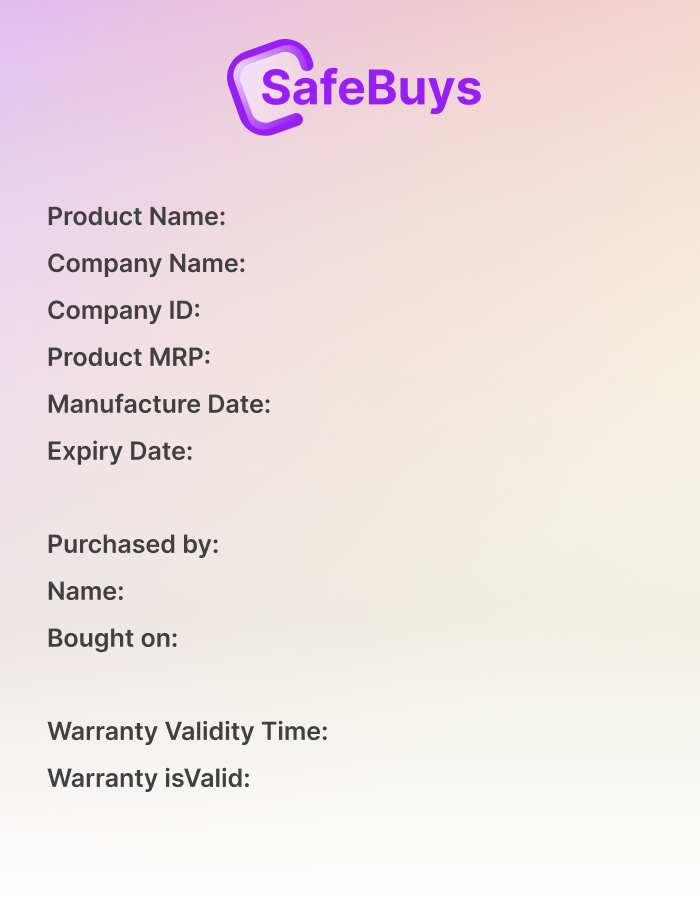
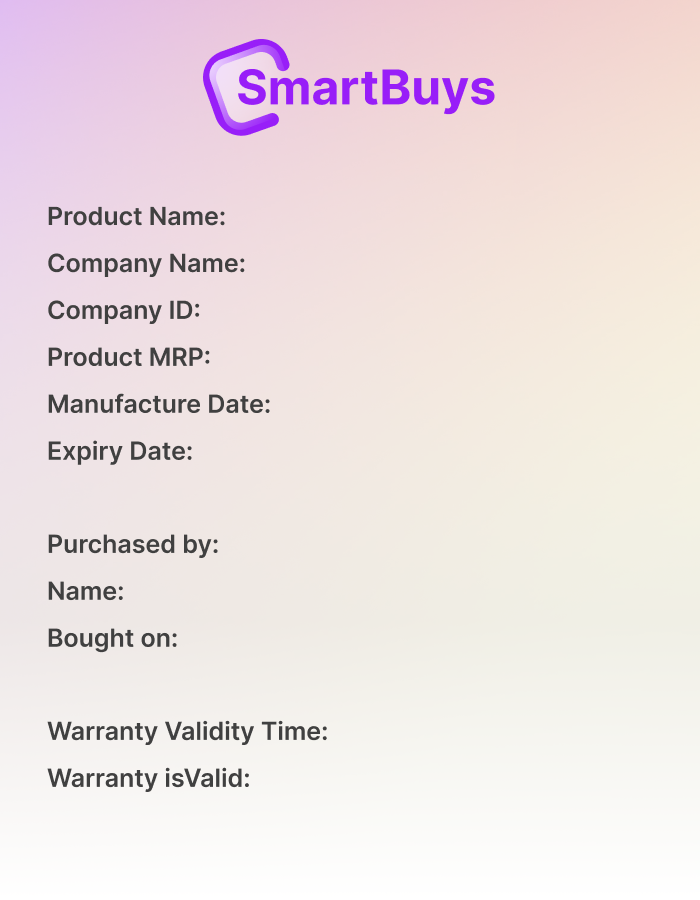
Adding scroll alpha testnet

Changed region(s): [[0.27, 0.0311, 0.72, 0.1556]]

diff --git a/src/Context/SafeBuyContext.jsx b/src/Context/SafeBuyContext.jsx
@@ -78,35 +78,15 @@ export const SafeBuyProvider = ({ children }) => {
 		age
 	) => {
 		const contract = await connectingWithSmartContract();
-
-		const web3Modal = new Wenb3Model();
-		const connection = await web3Modal.connect();
-		const provider = new ethers.providers.Web3Provider(connection);
-		let smartAccount = new SmartAccount(provider, options);
-		smartAccount = await smartAccount.init();
-
-		console.log("--------------------------------------------------------");
-		console.log(smartAccount);
-		console.log("--------------------------------------------------------");
-
-		const data = contract.interface.encodeFunctionData("registerUser", [
-			userAdd,
-			name,
-			emailId,
-			mobileNo,
-			gender,
-			age,
-		]);
-
-		const tx1 = {
-			to: SafeBuyAddress,
-			data,
-		};
-
-		const txResponse = await smartAccount.sendGaslessTransaction({
-			transaction: tx1,
-		});
-		console.log(txResponse);
+		if (currentAccount) {
+			const data = await contract.registerUser(userAdd,
+				name,
+				emailId,
+				mobileNo,
+				gender,
+				age);
+			console.log(data);
+		}
 	};
 
 	const registerCompany = async (comAdd, name, cin) => {

diff --git a/src/Context/constants.js b/src/Context/constants.js
@@ -10,11 +10,13 @@ export const ChainId = {
 	GOERLI: 5,
 	POLYGON_MUMBAI: 80001,
 	POLYGON_MAINNET: 137,
+	SCROLL: 534353,
 };
 
-export let activeChainId = ChainId.POLYGON_MUMBAI;
+export let activeChainId = ChainId.SCROLL;
 export const supportedChains = [
 	ChainId.GOERLI,
 	ChainId.POLYGON_MAINNET,
 	ChainId.POLYGON_MUMBAI,
+	ChainId.SCROLL
 ];

diff --git a/public/index.html b/public/index.html
@@ -24,7 +24,7 @@
       work correctly both with client-side routing and a non-root public URL.
       Learn how to configure a non-root public URL by running `npm run build`.
     -->
-    <title>SafeBuys</title>
+    <title>SmartBuys</title>
   </head>
   <body>
     <noscript>You need to enable JavaScript to run this app.</noscript>

diff --git a/hardhat.config.js b/hardhat.config.js
@@ -20,5 +20,13 @@ module.exports = {
 			],
 			allowUnlimitedContractSize: true,
 		},
+		scroll_alpha: {
+			url: `https://alpha-rpc.scroll.io/l2`,
+			chainId: 534353,
+			accounts: [
[1 lines of base64/hex data omitted]
+			],
+			allowUnlimitedContractSize: true,
+		}
 	},
 };
